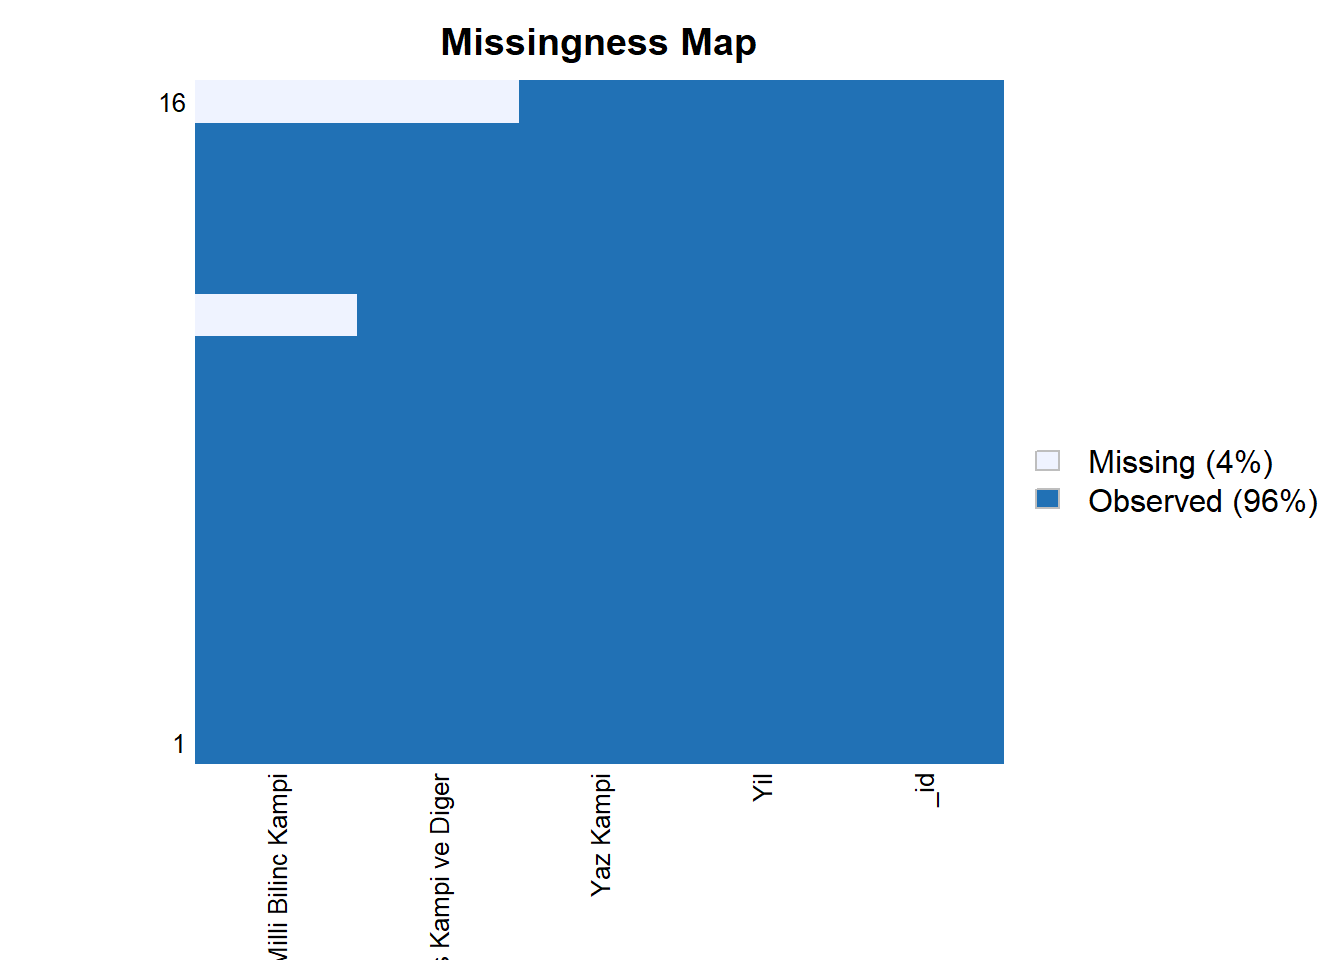
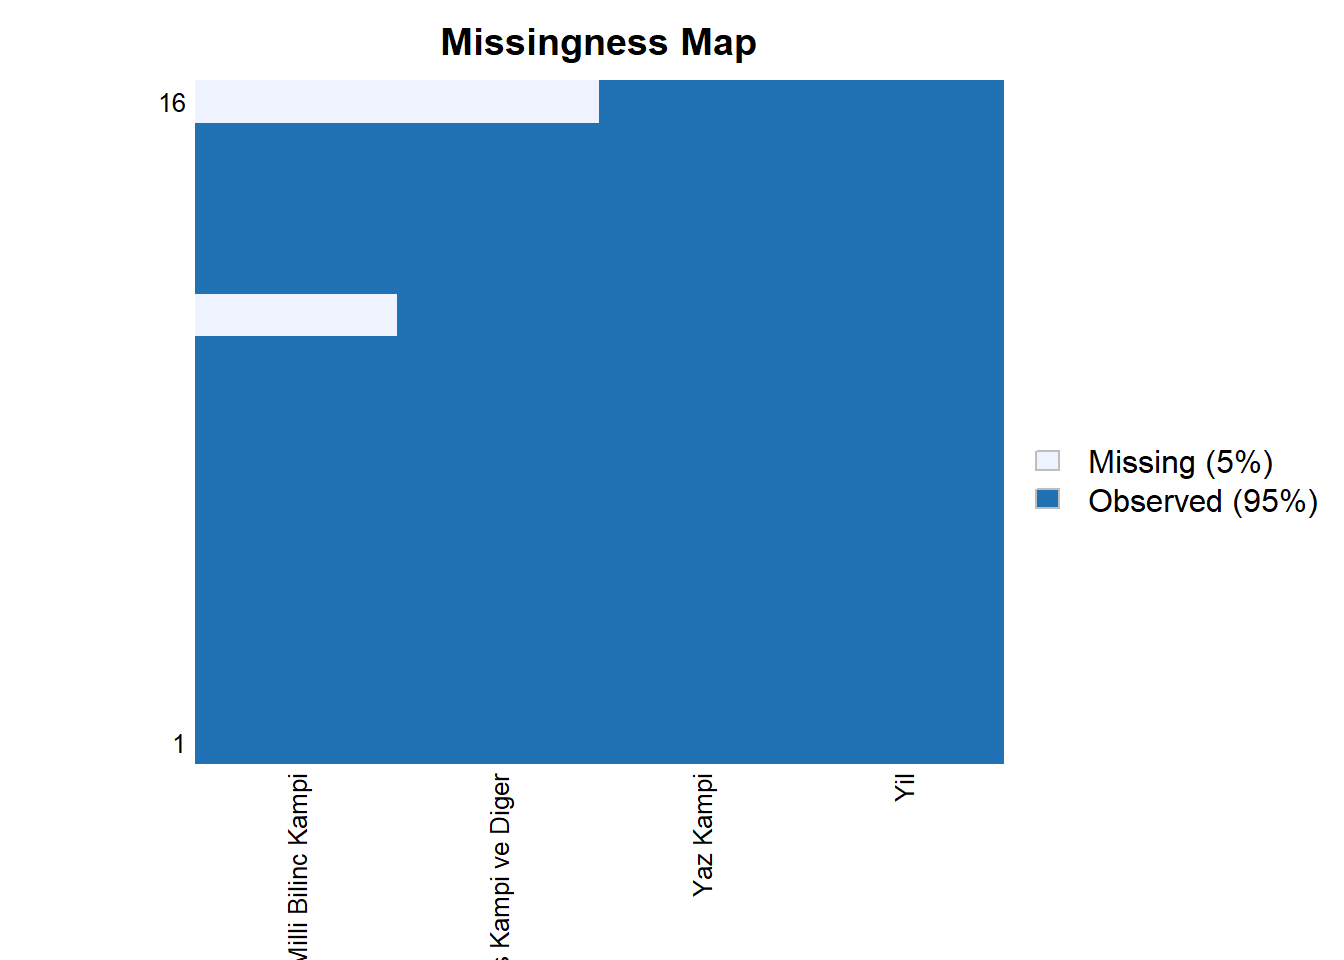
R Final Proje

diff --git a/20211101040_Mehmet Burak Sakallıoğlu.html b/20211101040_Mehmet Burak Sakallıoğlu.html
@@ -185,7 +185,7 @@ e.g.:
 <div class="cell-output cell-output-stdout">
 <pre><code>[1] 3</code></pre>
 </div>
-<div class="sourceCode cell-code" id="cb11"><pre class="sourceCode r code-with-copy"><code class="sourceCode r"><span id="cb11-1"><a href="#cb11-1" aria-hidden="true" tabindex="-1"></a>Amelia<span class="sc">::</span><span class="fu">missmap</span>(izci_sayısı)</span></code><button title="Copy to Clipboard" class="code-copy-button"><i class="bi"></i></button></pre></div>
+<div class="sourceCode cell-code" id="cb11"><pre class="sourceCode r code-with-copy"><code class="sourceCode r"><span id="cb11-1"><a href="#cb11-1" aria-hidden="true" tabindex="-1"></a>Amelia<span class="sc">::</span><span class="fu">missmap</span>(izci_sayısı[,<span class="sc">-</span><span class="dv">1</span>])</span></code><button title="Copy to Clipboard" class="code-copy-button"><i class="bi"></i></button></pre></div>
 <div class="cell-output cell-output-stderr">
 <pre><code>Warning: Unknown or uninitialised column: `arguments`.
 Unknown or uninitialised column: `arguments`.</code></pre>
@@ -200,7 +200,7 @@ Unknown or uninitialised column: `arguments`.</code></pre>
 </figure>
 </div>
 </div>
-<div class="sourceCode cell-code" id="cb14"><pre class="sourceCode r code-with-copy"><code class="sourceCode r"><span id="cb14-1"><a href="#cb14-1" aria-hidden="true" tabindex="-1"></a><span class="fu">vis_miss</span>(izci_sayısı)</span></code><button title="Copy to Clipboard" class="code-copy-button"><i class="bi"></i></button></pre></div>
+<div class="sourceCode cell-code" id="cb14"><pre class="sourceCode r code-with-copy"><code class="sourceCode r"><span id="cb14-1"><a href="#cb14-1" aria-hidden="true" tabindex="-1"></a><span class="fu">vis_miss</span>(izci_sayısı[,<span class="sc">-</span><span class="dv">1</span>])</span></code><button title="Copy to Clipboard" class="code-copy-button"><i class="bi"></i></button></pre></div>
 <div class="cell-output-display">
 <div>
 <figure class="figure">
@@ -294,15 +294,15 @@ Unknown or uninitialised column: `arguments`.</code></pre>
 <h1><strong>Veri Analizi:</strong></h1>
 <p>Bu bölümde verinin boş gözlem bulunmayan son hali analiz edilecektir.</p>
 <div class="cell">
-<div class="sourceCode cell-code" id="cb21"><pre class="sourceCode r code-with-copy"><code class="sourceCode r"><span id="cb21-1"><a href="#cb21-1" aria-hidden="true" tabindex="-1"></a><span class="fu">summary</span>(izci_sayısı)</span></code><button title="Copy to Clipboard" class="code-copy-button"><i class="bi"></i></button></pre></div>
+<div class="sourceCode cell-code" id="cb21"><pre class="sourceCode r code-with-copy"><code class="sourceCode r"><span id="cb21-1"><a href="#cb21-1" aria-hidden="true" tabindex="-1"></a><span class="fu">summary</span>(izci_sayısı[,<span class="sc">-</span><span class="dv">2</span>])</span></code><button title="Copy to Clipboard" class="code-copy-button"><i class="bi"></i></button></pre></div>
 <div class="cell-output cell-output-stdout">
-<pre><code>     _id                 Yil       Canakkale Milli Bilinc Kampi   Yaz Kampi    
- Length:16          Min.   :2004   Min.   :1100                 Min.   : 1000  
- Class :character   1st Qu.:2008   1st Qu.:3000                 1st Qu.: 5928  
- Mode  :character   Median :2012   Median :4056                 Median : 7504  
-                    Mean   :2012   Mean   :4194                 Mean   : 7527  
-                    3rd Qu.:2015   3rd Qu.:4620                 3rd Qu.: 8898  
-                    Max.   :2019   Max.   :9428                 Max.   :15000  
+<pre><code>     _id            Canakkale Milli Bilinc Kampi   Yaz Kampi    
+ Length:16          Min.   :1100                 Min.   : 1000  
+ Class :character   1st Qu.:3000                 1st Qu.: 5928  
+ Mode  :character   Median :4056                 Median : 7504  
+                    Mean   :4194                 Mean   : 7527  
+                    3rd Qu.:4620                 3rd Qu.: 8898  
+                    Max.   :9428                 Max.   :15000  
  Kis Kampi ve Diger
  Min.   : 160      
  1st Qu.: 875      
@@ -313,60 +313,53 @@ Unknown or uninitialised column: `arguments`.</code></pre>
 </div>
 </div>
 <div class="cell">
-<div class="sourceCode cell-code" id="cb23"><pre class="sourceCode r code-with-copy"><code class="sourceCode r"><span id="cb23-1"><a href="#cb23-1" aria-hidden="true" tabindex="-1"></a><span class="fu">lm</span>(izci_sayısı)</span></code><button title="Copy to Clipboard" class="code-copy-button"><i class="bi"></i></button></pre></div>
+<div class="sourceCode cell-code" id="cb23"><pre class="sourceCode r code-with-copy"><code class="sourceCode r"><span id="cb23-1"><a href="#cb23-1" aria-hidden="true" tabindex="-1"></a><span class="fu">lm</span>(izci_sayısı[,<span class="sc">-</span><span class="dv">2</span>])</span></code><button title="Copy to Clipboard" class="code-copy-button"><i class="bi"></i></button></pre></div>
 <div class="cell-output cell-output-stdout">
 <pre><code>
 Call:
-lm(formula = izci_sayısı)
+lm(formula = izci_sayısı[, -2])
 
 Coefficients:
-                   (Intercept)                             Yil  
-                    -2.003e+03                       1.000e+00  
-`Canakkale Milli Bilinc Kampi`                     `Yaz Kampi`  
-                    -3.046e-19                       1.557e-20  
-          `Kis Kampi ve Diger`  
-                    -1.901e-19  </code></pre>
+                   (Intercept)  `Canakkale Milli Bilinc Kampi`  
+                     1.383e+00                       8.011e-04  
+                   `Yaz Kampi`            `Kis Kampi ve Diger`  
+                     6.778e-05                       1.458e-03  </code></pre>
 </div>
-<div class="sourceCode cell-code" id="cb25"><pre class="sourceCode r code-with-copy"><code class="sourceCode r"><span id="cb25-1"><a href="#cb25-1" aria-hidden="true" tabindex="-1"></a><span class="fu">summary</span>(<span class="fu">lm</span>(izci_sayısı))</span></code><button title="Copy to Clipboard" class="code-copy-button"><i class="bi"></i></button></pre></div>
-<div class="cell-output cell-output-stderr">
-<pre><code>Warning in summary.lm(lm(izci_sayısı)): essentially perfect fit: summary may be
-unreliable</code></pre>
-</div>
+<div class="sourceCode cell-code" id="cb25"><pre class="sourceCode r code-with-copy"><code class="sourceCode r"><span id="cb25-1"><a href="#cb25-1" aria-hidden="true" tabindex="-1"></a><span class="fu">summary</span>(<span class="fu">lm</span>(izci_sayısı[,<span class="sc">-</span><span class="dv">2</span>]))</span></code><button title="Copy to Clipboard" class="code-copy-button"><i class="bi"></i></button></pre></div>
 <div class="cell-output cell-output-stdout">
 <pre><code>
 Call:
-lm(formula = izci_sayısı)
+lm(formula = izci_sayısı[, -2])
 
 Residuals:
-       Min         1Q     Median         3Q        Max 
--1.824e-15 -9.359e-16 -3.209e-16  9.220e-17  5.586e-15 
+    Min      1Q  Median      3Q     Max 
+-7.0575 -1.4435  0.1421  2.6692  4.1929 
 
 Coefficients:
-                                 Estimate Std. Error    t value Pr(&gt;|t|)    
-(Intercept)                    -2.003e+03  3.277e-13 -6.113e+15   &lt;2e-16 ***
-Yil                             1.000e+00  1.635e-16  6.117e+15   &lt;2e-16 ***
-`Canakkale Milli Bilinc Kampi` -3.046e-19  3.121e-19 -9.760e-01    0.350    
-`Yaz Kampi`                     1.557e-20  1.722e-19  9.000e-02    0.930    
-`Kis Kampi ve Diger`           -1.901e-19  3.659e-19 -5.200e-01    0.614    
+                                Estimate Std. Error t value Pr(&gt;|t|)  
+(Intercept)                    1.383e+00  3.193e+00   0.433   0.6727  
+`Canakkale Milli Bilinc Kampi` 8.011e-04  5.003e-04   1.601   0.1353  
+`Yaz Kampi`                    6.778e-05  3.035e-04   0.223   0.8270  
+`Kis Kampi ve Diger`           1.458e-03  4.903e-04   2.974   0.0116 *
 ---
 Signif. codes:  0 '***' 0.001 '**' 0.01 '*' 0.05 '.' 0.1 ' ' 1
 
-Residual standard error: 2.014e-15 on 11 degrees of freedom
-Multiple R-squared:      1, Adjusted R-squared:      1 
-F-statistic: 2.096e+31 on 4 and 11 DF,  p-value: &lt; 2.2e-16</code></pre>
+Residual standard error: 3.556 on 12 degrees of freedom
+Multiple R-squared:  0.5537,    Adjusted R-squared:  0.4422 
+F-statistic: 4.963 on 3 and 12 DF,  p-value: 0.01818</code></pre>
 </div>
 </div>
 <section id="grafik" class="level2">
 <h2 class="anchored" data-anchor-id="grafik">1. Grafik</h2>
 <p>Burada Çanakkale Milli Bilinç Kampı İzci sayılarının yıllara göre değişimi çizgi grafiği yardımıyla gösterilmiştir.</p>
 <div class="cell">
-<div class="sourceCode cell-code" id="cb28"><pre class="sourceCode r code-with-copy"><code class="sourceCode r"><span id="cb28-1"><a href="#cb28-1" aria-hidden="true" tabindex="-1"></a><span class="fu">library</span>(ggplot2)</span>
-<span id="cb28-2"><a href="#cb28-2" aria-hidden="true" tabindex="-1"></a></span>
-<span id="cb28-3"><a href="#cb28-3" aria-hidden="true" tabindex="-1"></a><span class="fu">ggplot</span>(izci_sayısı, <span class="fu">aes</span>(<span class="at">x =</span> Yil, <span class="at">y =</span> <span class="st">`</span><span class="at">Canakkale Milli Bilinc Kampi</span><span class="st">`</span>)) <span class="sc">+</span></span>
-<span id="cb28-4"><a href="#cb28-4" aria-hidden="true" tabindex="-1"></a>  <span class="fu">geom_line</span>() <span class="sc">+</span></span>
-<span id="cb28-5"><a href="#cb28-5" aria-hidden="true" tabindex="-1"></a>  <span class="fu">labs</span>(<span class="at">title =</span> <span class="st">"Canakkale Milli Bilinc Kampi Izci Sayilari"</span>,</span>
-<span id="cb28-6"><a href="#cb28-6" aria-hidden="true" tabindex="-1"></a>       <span class="at">x =</span> <span class="st">"Yil"</span>,</span>
-<span id="cb28-7"><a href="#cb28-7" aria-hidden="true" tabindex="-1"></a>       <span class="at">y =</span> <span class="st">"Izci Sayisi"</span>)</span></code><button title="Copy to Clipboard" class="code-copy-button"><i class="bi"></i></button></pre></div>
+<div class="sourceCode cell-code" id="cb27"><pre class="sourceCode r code-with-copy"><code class="sourceCode r"><span id="cb27-1"><a href="#cb27-1" aria-hidden="true" tabindex="-1"></a><span class="fu">library</span>(ggplot2)</span>
+<span id="cb27-2"><a href="#cb27-2" aria-hidden="true" tabindex="-1"></a></span>
+<span id="cb27-3"><a href="#cb27-3" aria-hidden="true" tabindex="-1"></a><span class="fu">ggplot</span>(izci_sayısı, <span class="fu">aes</span>(<span class="at">x =</span> Yil, <span class="at">y =</span> <span class="st">`</span><span class="at">Canakkale Milli Bilinc Kampi</span><span class="st">`</span>)) <span class="sc">+</span></span>
+<span id="cb27-4"><a href="#cb27-4" aria-hidden="true" tabindex="-1"></a>  <span class="fu">geom_line</span>() <span class="sc">+</span></span>
+<span id="cb27-5"><a href="#cb27-5" aria-hidden="true" tabindex="-1"></a>  <span class="fu">labs</span>(<span class="at">title =</span> <span class="st">"Canakkale Milli Bilinc Kampi Izci Sayilari"</span>,</span>
+<span id="cb27-6"><a href="#cb27-6" aria-hidden="true" tabindex="-1"></a>       <span class="at">x =</span> <span class="st">"Yil"</span>,</span>
+<span id="cb27-7"><a href="#cb27-7" aria-hidden="true" tabindex="-1"></a>       <span class="at">y =</span> <span class="st">"Izci Sayisi"</span>)</span></code><button title="Copy to Clipboard" class="code-copy-button"><i class="bi"></i></button></pre></div>
 <div class="cell-output-display">
 <div>
 <figure class="figure">
@@ -380,13 +373,13 @@ F-statistic: 2.096e+31 on 4 and 11 DF,  p-value: &lt; 2.2e-16</code></pre>
 <h2 class="anchored" data-anchor-id="grafik-1">2. Grafik</h2>
 <p>Burada Yaz Kampı İzci sayılarının yıllara göre değişimi çizgi grafiği yardımıyla gösterilmiştir.</p>
 <div class="cell">
-<div class="sourceCode cell-code" id="cb29"><pre class="sourceCode r code-with-copy"><code class="sourceCode r"><span id="cb29-1"><a href="#cb29-1" aria-hidden="true" tabindex="-1"></a><span class="fu">library</span>(ggplot2)</span>
-<span id="cb29-2"><a href="#cb29-2" aria-hidden="true" tabindex="-1"></a></span>
-<span id="cb29-3"><a href="#cb29-3" aria-hidden="true" tabindex="-1"></a><span class="fu">ggplot</span>(izci_sayısı, <span class="fu">aes</span>(<span class="at">x =</span> Yil, <span class="at">y =</span> <span class="st">`</span><span class="at">Yaz Kampi</span><span class="st">`</span>)) <span class="sc">+</span></span>
-<span id="cb29-4"><a href="#cb29-4" aria-hidden="true" tabindex="-1"></a>  <span class="fu">geom_line</span>() <span class="sc">+</span></span>
-<span id="cb29-5"><a href="#cb29-5" aria-hidden="true" tabindex="-1"></a>  <span class="fu">labs</span>(<span class="at">title =</span> <span class="st">"Yaz Kampı Izci Sayıları"</span>,</span>
-<span id="cb29-6"><a href="#cb29-6" aria-hidden="true" tabindex="-1"></a>       <span class="at">x =</span> <span class="st">"Yıl"</span>,</span>
-<span id="cb29-7"><a href="#cb29-7" aria-hidden="true" tabindex="-1"></a>       <span class="at">y =</span> <span class="st">"Izci Sayısı"</span>)</span></code><button title="Copy to Clipboard" class="code-copy-button"><i class="bi"></i></button></pre></div>
+<div class="sourceCode cell-code" id="cb28"><pre class="sourceCode r code-with-copy"><code class="sourceCode r"><span id="cb28-1"><a href="#cb28-1" aria-hidden="true" tabindex="-1"></a><span class="fu">library</span>(ggplot2)</span>
+<span id="cb28-2"><a href="#cb28-2" aria-hidden="true" tabindex="-1"></a></span>
+<span id="cb28-3"><a href="#cb28-3" aria-hidden="true" tabindex="-1"></a><span class="fu">ggplot</span>(izci_sayısı, <span class="fu">aes</span>(<span class="at">x =</span> Yil, <span class="at">y =</span> <span class="st">`</span><span class="at">Yaz Kampi</span><span class="st">`</span>)) <span class="sc">+</span></span>
+<span id="cb28-4"><a href="#cb28-4" aria-hidden="true" tabindex="-1"></a>  <span class="fu">geom_line</span>() <span class="sc">+</span></span>
+<span id="cb28-5"><a href="#cb28-5" aria-hidden="true" tabindex="-1"></a>  <span class="fu">labs</span>(<span class="at">title =</span> <span class="st">"Yaz Kampı Izci Sayıları"</span>,</span>
+<span id="cb28-6"><a href="#cb28-6" aria-hidden="true" tabindex="-1"></a>       <span class="at">x =</span> <span class="st">"Yıl"</span>,</span>
+<span id="cb28-7"><a href="#cb28-7" aria-hidden="true" tabindex="-1"></a>       <span class="at">y =</span> <span class="st">"Izci Sayısı"</span>)</span></code><button title="Copy to Clipboard" class="code-copy-button"><i class="bi"></i></button></pre></div>
 <div class="cell-output-display">
 <div>
 <figure class="figure">
@@ -400,13 +393,13 @@ F-statistic: 2.096e+31 on 4 and 11 DF,  p-value: &lt; 2.2e-16</code></pre>
 <h2 class="anchored" data-anchor-id="grafik-2">3. Grafik</h2>
 <p>Burada Çanakkale Kış Kampı ve Diğer Kamplardaki İzci sayılarının yıllara göre değişimi histogram grafiği yardımıyla gösterilmiştir.</p>
 <div class="cell">
-<div class="sourceCode cell-code" id="cb30"><pre class="sourceCode r code-with-copy"><code class="sourceCode r"><span id="cb30-1"><a href="#cb30-1" aria-hidden="true" tabindex="-1"></a><span class="fu">library</span>(ggplot2)</span>
-<span id="cb30-2"><a href="#cb30-2" aria-hidden="true" tabindex="-1"></a></span>
-<span id="cb30-3"><a href="#cb30-3" aria-hidden="true" tabindex="-1"></a><span class="fu">ggplot</span>(izci_sayısı, <span class="fu">aes</span>(<span class="at">x =</span> Yil, <span class="at">y =</span> <span class="st">`</span><span class="at">Kis Kampi ve Diger</span><span class="st">`</span>, <span class="at">fill =</span> <span class="fu">as.factor</span>(Yil))) <span class="sc">+</span></span>
-<span id="cb30-4"><a href="#cb30-4" aria-hidden="true" tabindex="-1"></a>  <span class="fu">geom_bar</span>(<span class="at">stat =</span> <span class="st">"identity"</span>) <span class="sc">+</span></span>
-<span id="cb30-5"><a href="#cb30-5" aria-hidden="true" tabindex="-1"></a>  <span class="fu">labs</span>(<span class="at">title =</span> <span class="st">"Çanakkale Kış Kampı ve Diğer Kamplar Izci Sayıları"</span>,</span>
-<span id="cb30-6"><a href="#cb30-6" aria-hidden="true" tabindex="-1"></a>       <span class="at">x =</span> <span class="st">"Yıl"</span>,</span>
-<span id="cb30-7"><a href="#cb30-7" aria-hidden="true" tabindex="-1"></a>       <span class="at">y =</span> <span class="st">"Izci Sayısı"</span>)</span></code><button title="Copy to Clipboard" class="code-copy-button"><i class="bi"></i></button></pre></div>
+<div class="sourceCode cell-code" id="cb29"><pre class="sourceCode r code-with-copy"><code class="sourceCode r"><span id="cb29-1"><a href="#cb29-1" aria-hidden="true" tabindex="-1"></a><span class="fu">library</span>(ggplot2)</span>
+<span id="cb29-2"><a href="#cb29-2" aria-hidden="true" tabindex="-1"></a></span>
+<span id="cb29-3"><a href="#cb29-3" aria-hidden="true" tabindex="-1"></a><span class="fu">ggplot</span>(izci_sayısı, <span class="fu">aes</span>(<span class="at">x =</span> Yil, <span class="at">y =</span> <span class="st">`</span><span class="at">Kis Kampi ve Diger</span><span class="st">`</span>, <span class="at">fill =</span> <span class="fu">as.factor</span>(Yil))) <span class="sc">+</span></span>
+<span id="cb29-4"><a href="#cb29-4" aria-hidden="true" tabindex="-1"></a>  <span class="fu">geom_bar</span>(<span class="at">stat =</span> <span class="st">"identity"</span>) <span class="sc">+</span></span>
+<span id="cb29-5"><a href="#cb29-5" aria-hidden="true" tabindex="-1"></a>  <span class="fu">labs</span>(<span class="at">title =</span> <span class="st">"Çanakkale Kış Kampı ve Diğer Kamplar Izci Sayıları"</span>,</span>
+<span id="cb29-6"><a href="#cb29-6" aria-hidden="true" tabindex="-1"></a>       <span class="at">x =</span> <span class="st">"Yıl"</span>,</span>
+<span id="cb29-7"><a href="#cb29-7" aria-hidden="true" tabindex="-1"></a>       <span class="at">y =</span> <span class="st">"Izci Sayısı"</span>)</span></code><button title="Copy to Clipboard" class="code-copy-button"><i class="bi"></i></button></pre></div>
 <div class="cell-output-display">
 <div>
 <figure class="figure">
@@ -420,21 +413,21 @@ F-statistic: 2.096e+31 on 4 and 11 DF,  p-value: &lt; 2.2e-16</code></pre>
 <h2 class="anchored" data-anchor-id="grafik-3">4. Grafik</h2>
 <p>Çanakkale Milli Bilinç Kampı, Yaz Kampı ve Kış Kampı için izci sayılarını karşılaştırmak amacıyla bir grafik oluşturmak için, bu üç kamp türünün izci sayılarını aynı grafik üzerinde gösteren bir çizgi grafiği örneği aşağıda verilmiştir:</p>
 <div class="cell">
-<div class="sourceCode cell-code" id="cb31"><pre class="sourceCode r code-with-copy"><code class="sourceCode r"><span id="cb31-1"><a href="#cb31-1" aria-hidden="true" tabindex="-1"></a><span class="fu">library</span>(ggplot2)</span>
-<span id="cb31-2"><a href="#cb31-2" aria-hidden="true" tabindex="-1"></a>genisletilmis_veri <span class="ot">&lt;-</span> izci_sayısı <span class="sc">%&gt;%</span></span>
-<span id="cb31-3"><a href="#cb31-3" aria-hidden="true" tabindex="-1"></a>  <span class="fu">pivot_longer</span>(<span class="at">cols =</span> <span class="fu">c</span>(<span class="st">"Canakkale Milli Bilinc Kampi"</span>, <span class="st">"Yaz Kampi"</span>, <span class="st">"Kis Kampi ve Diger"</span>),</span>
-<span id="cb31-4"><a href="#cb31-4" aria-hidden="true" tabindex="-1"></a>               <span class="at">names_to =</span> <span class="st">"Kamp_Turu"</span>, </span>
-<span id="cb31-5"><a href="#cb31-5" aria-hidden="true" tabindex="-1"></a>               <span class="at">values_to =</span> <span class="st">"Izci_Sayisi"</span>)</span>
-<span id="cb31-6"><a href="#cb31-6" aria-hidden="true" tabindex="-1"></a></span>
-<span id="cb31-7"><a href="#cb31-7" aria-hidden="true" tabindex="-1"></a><span class="fu">ggplot</span>(genisletilmis_veri, <span class="fu">aes</span>(<span class="at">x =</span> Yil, <span class="at">y =</span> Izci_Sayisi, <span class="at">color =</span> Kamp_Turu)) <span class="sc">+</span></span>
-<span id="cb31-8"><a href="#cb31-8" aria-hidden="true" tabindex="-1"></a>  <span class="fu">geom_line</span>() <span class="sc">+</span></span>
-<span id="cb31-9"><a href="#cb31-9" aria-hidden="true" tabindex="-1"></a>  <span class="fu">labs</span>(<span class="at">title =</span> <span class="st">"Çanakkale Kamp Türleri İzci Sayıları Karşılaştırması"</span>,</span>
-<span id="cb31-10"><a href="#cb31-10" aria-hidden="true" tabindex="-1"></a>       <span class="at">x =</span> <span class="st">"Yıl"</span>,</span>
-<span id="cb31-11"><a href="#cb31-11" aria-hidden="true" tabindex="-1"></a>       <span class="at">y =</span> <span class="st">"Izci Sayısı"</span>,</span>
-<span id="cb31-12"><a href="#cb31-12" aria-hidden="true" tabindex="-1"></a>       <span class="at">color =</span> <span class="st">"Kamp Türü"</span>) <span class="sc">+</span></span>
-<span id="cb31-13"><a href="#cb31-13" aria-hidden="true" tabindex="-1"></a>  <span class="fu">scale_color_manual</span>(<span class="at">values =</span> <span class="fu">c</span>(<span class="st">"Canakkale Milli Bilinc Kampi"</span> <span class="ot">=</span> <span class="st">"blue"</span>,</span>
-<span id="cb31-14"><a href="#cb31-14" aria-hidden="true" tabindex="-1"></a>                                <span class="st">"Yaz Kampi"</span> <span class="ot">=</span> <span class="st">"green"</span>,</span>
-<span id="cb31-15"><a href="#cb31-15" aria-hidden="true" tabindex="-1"></a>                                <span class="st">"Kis Kampi ve Diger"</span> <span class="ot">=</span> <span class="st">"red"</span>))</span></code><button title="Copy to Clipboard" class="code-copy-button"><i class="bi"></i></button></pre></div>
+<div class="sourceCode cell-code" id="cb30"><pre class="sourceCode r code-with-copy"><code class="sourceCode r"><span id="cb30-1"><a href="#cb30-1" aria-hidden="true" tabindex="-1"></a><span class="fu">library</span>(ggplot2)</span>
+<span id="cb30-2"><a href="#cb30-2" aria-hidden="true" tabindex="-1"></a>genisletilmis_veri <span class="ot">&lt;-</span> izci_sayısı <span class="sc">%&gt;%</span></span>
+<span id="cb30-3"><a href="#cb30-3" aria-hidden="true" tabindex="-1"></a>  <span class="fu">pivot_longer</span>(<span class="at">cols =</span> <span class="fu">c</span>(<span class="st">"Canakkale Milli Bilinc Kampi"</span>, <span class="st">"Yaz Kampi"</span>, <span class="st">"Kis Kampi ve Diger"</span>),</span>
+<span id="cb30-4"><a href="#cb30-4" aria-hidden="true" tabindex="-1"></a>               <span class="at">names_to =</span> <span class="st">"Kamp_Turu"</span>, </span>
+<span id="cb30-5"><a href="#cb30-5" aria-hidden="true" tabindex="-1"></a>               <span class="at">values_to =</span> <span class="st">"Izci_Sayisi"</span>)</span>
+<span id="cb30-6"><a href="#cb30-6" aria-hidden="true" tabindex="-1"></a></span>
+<span id="cb30-7"><a href="#cb30-7" aria-hidden="true" tabindex="-1"></a><span class="fu">ggplot</span>(genisletilmis_veri, <span class="fu">aes</span>(<span class="at">x =</span> Yil, <span class="at">y =</span> Izci_Sayisi, <span class="at">color =</span> Kamp_Turu)) <span class="sc">+</span></span>
+<span id="cb30-8"><a href="#cb30-8" aria-hidden="true" tabindex="-1"></a>  <span class="fu">geom_line</span>() <span class="sc">+</span></span>
+<span id="cb30-9"><a href="#cb30-9" aria-hidden="true" tabindex="-1"></a>  <span class="fu">labs</span>(<span class="at">title =</span> <span class="st">"Çanakkale Kamp Türleri İzci Sayıları Karşılaştırması"</span>,</span>
+<span id="cb30-10"><a href="#cb30-10" aria-hidden="true" tabindex="-1"></a>       <span class="at">x =</span> <span class="st">"Yıl"</span>,</span>
+<span id="cb30-11"><a href="#cb30-11" aria-hidden="true" tabindex="-1"></a>       <span class="at">y =</span> <span class="st">"Izci Sayısı"</span>,</span>
+<span id="cb30-12"><a href="#cb30-12" aria-hidden="true" tabindex="-1"></a>       <span class="at">color =</span> <span class="st">"Kamp Türü"</span>) <span class="sc">+</span></span>
+<span id="cb30-13"><a href="#cb30-13" aria-hidden="true" tabindex="-1"></a>  <span class="fu">scale_color_manual</span>(<span class="at">values =</span> <span class="fu">c</span>(<span class="st">"Canakkale Milli Bilinc Kampi"</span> <span class="ot">=</span> <span class="st">"blue"</span>,</span>
+<span id="cb30-14"><a href="#cb30-14" aria-hidden="true" tabindex="-1"></a>                                <span class="st">"Yaz Kampi"</span> <span class="ot">=</span> <span class="st">"green"</span>,</span>
+<span id="cb30-15"><a href="#cb30-15" aria-hidden="true" tabindex="-1"></a>                                <span class="st">"Kis Kampi ve Diger"</span> <span class="ot">=</span> <span class="st">"red"</span>))</span></code><button title="Copy to Clipboard" class="code-copy-button"><i class="bi"></i></button></pre></div>
 <div class="cell-output-display">
 <div>
 <figure class="figure">
